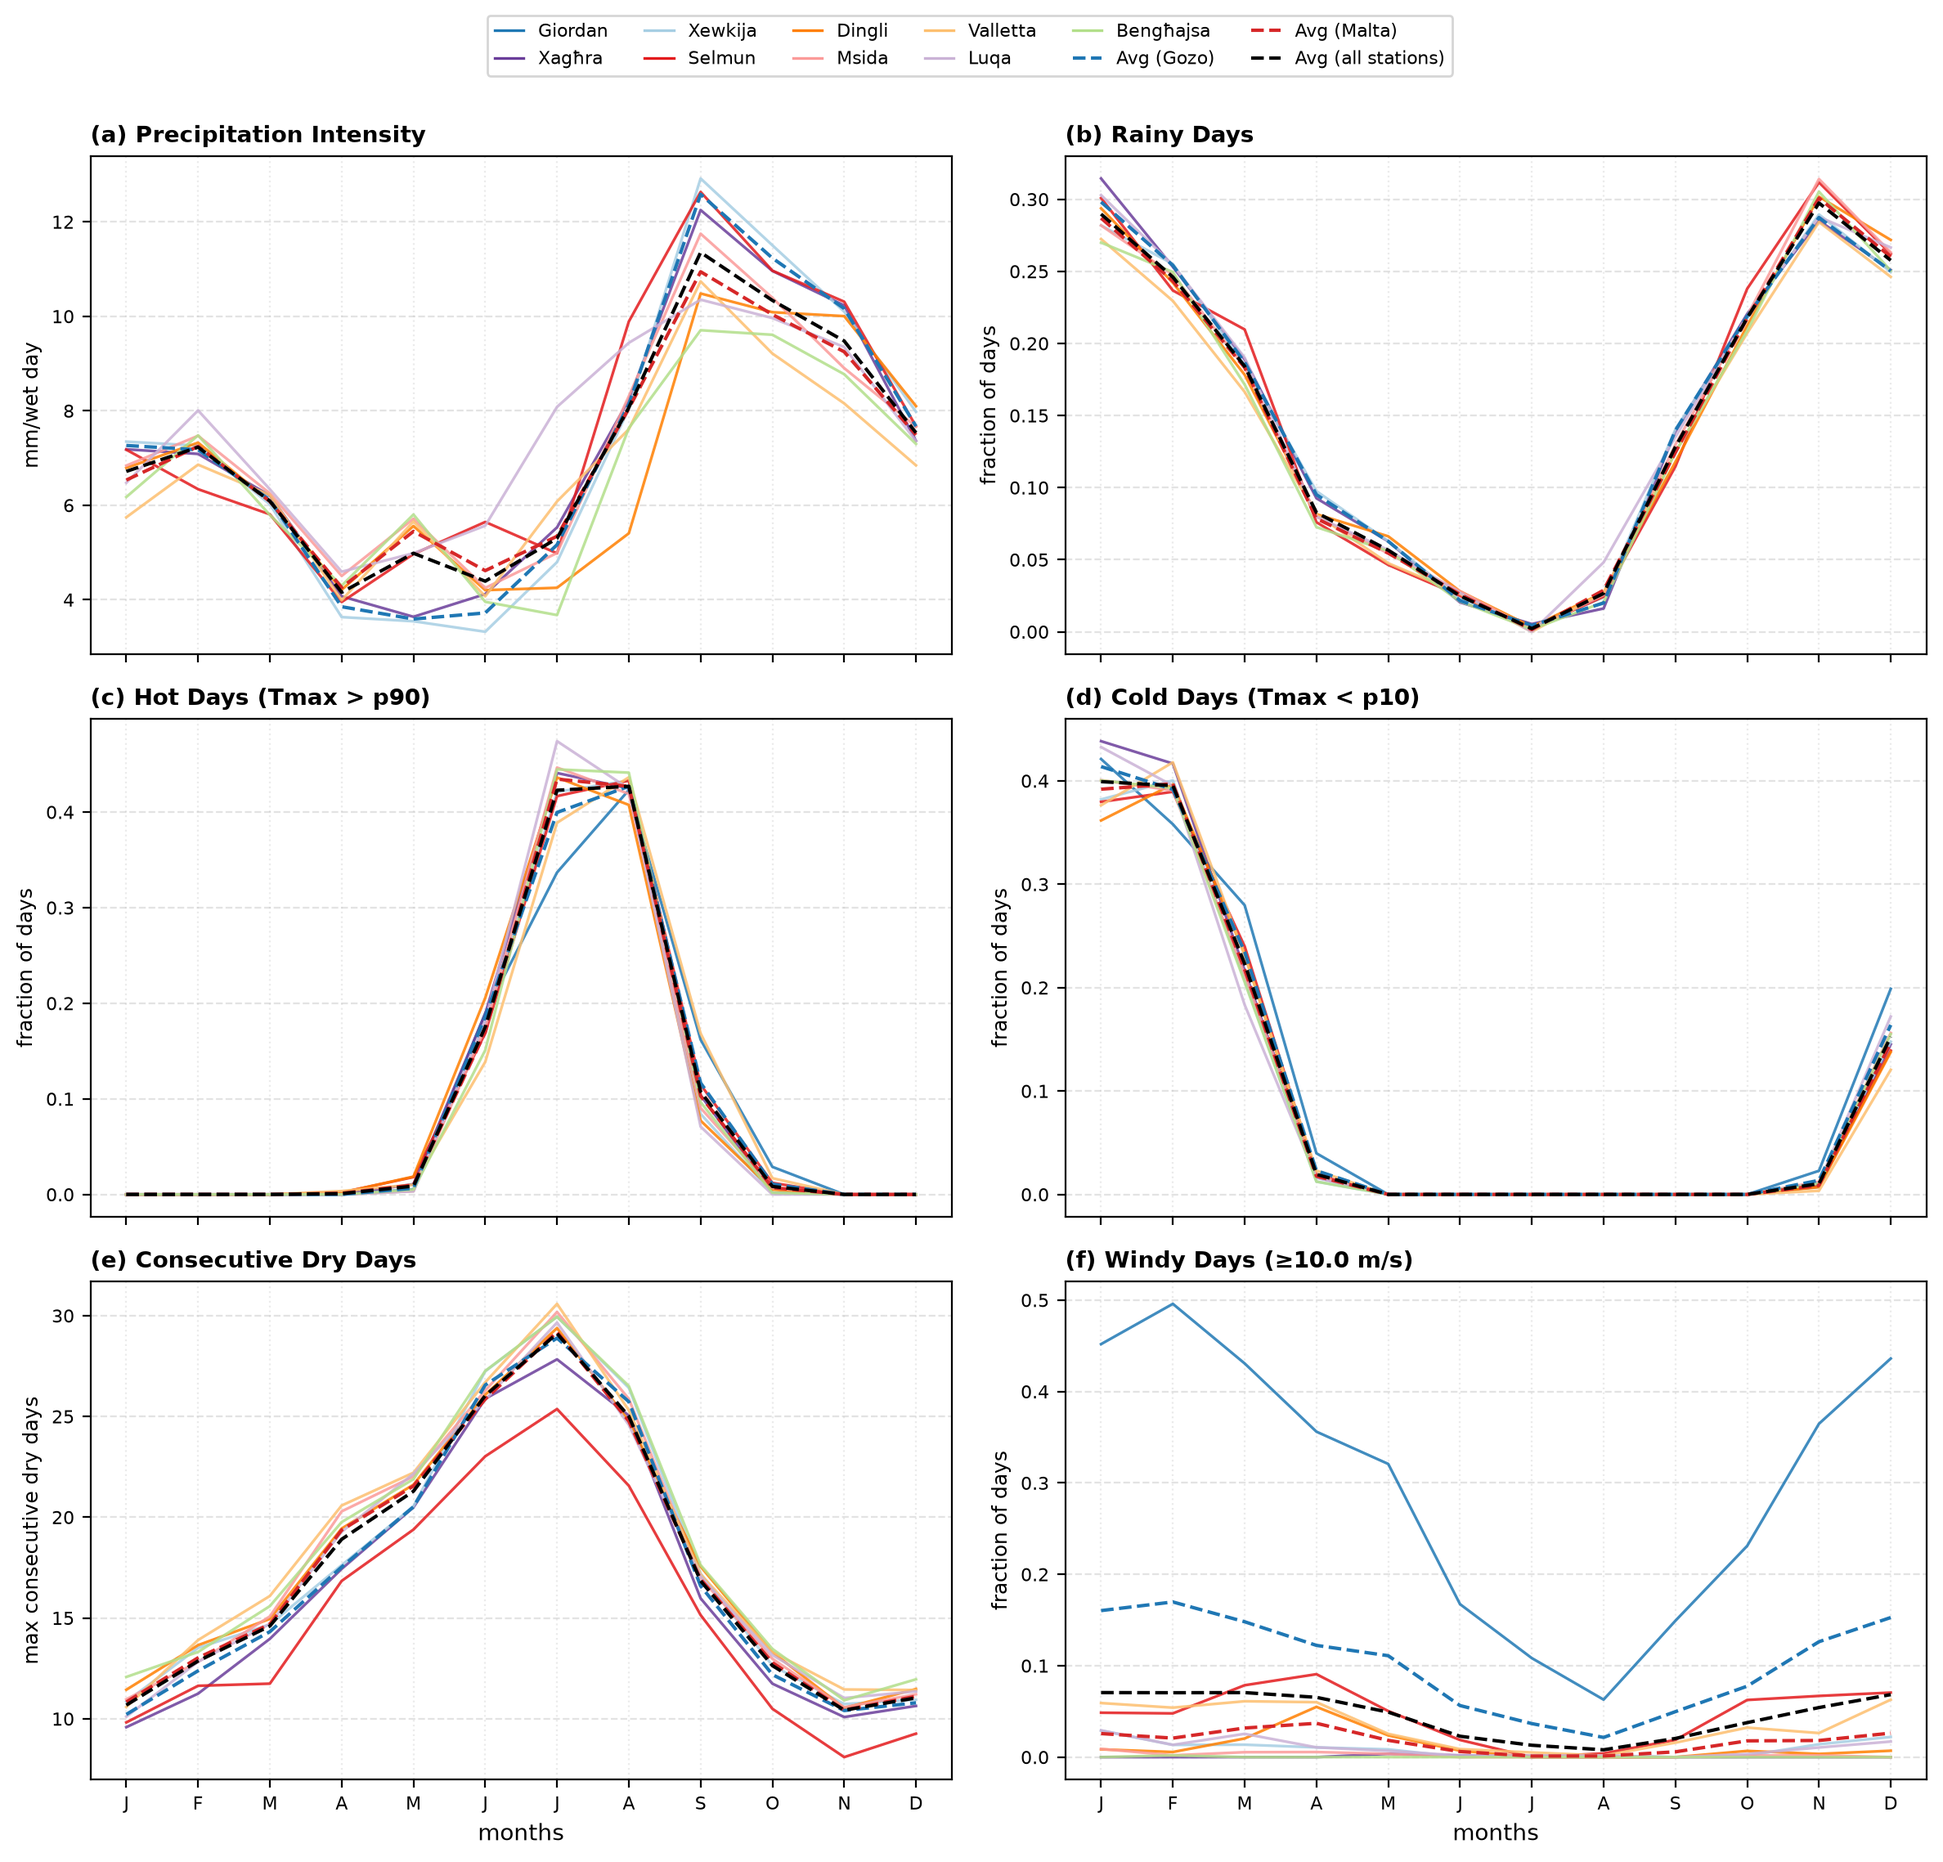
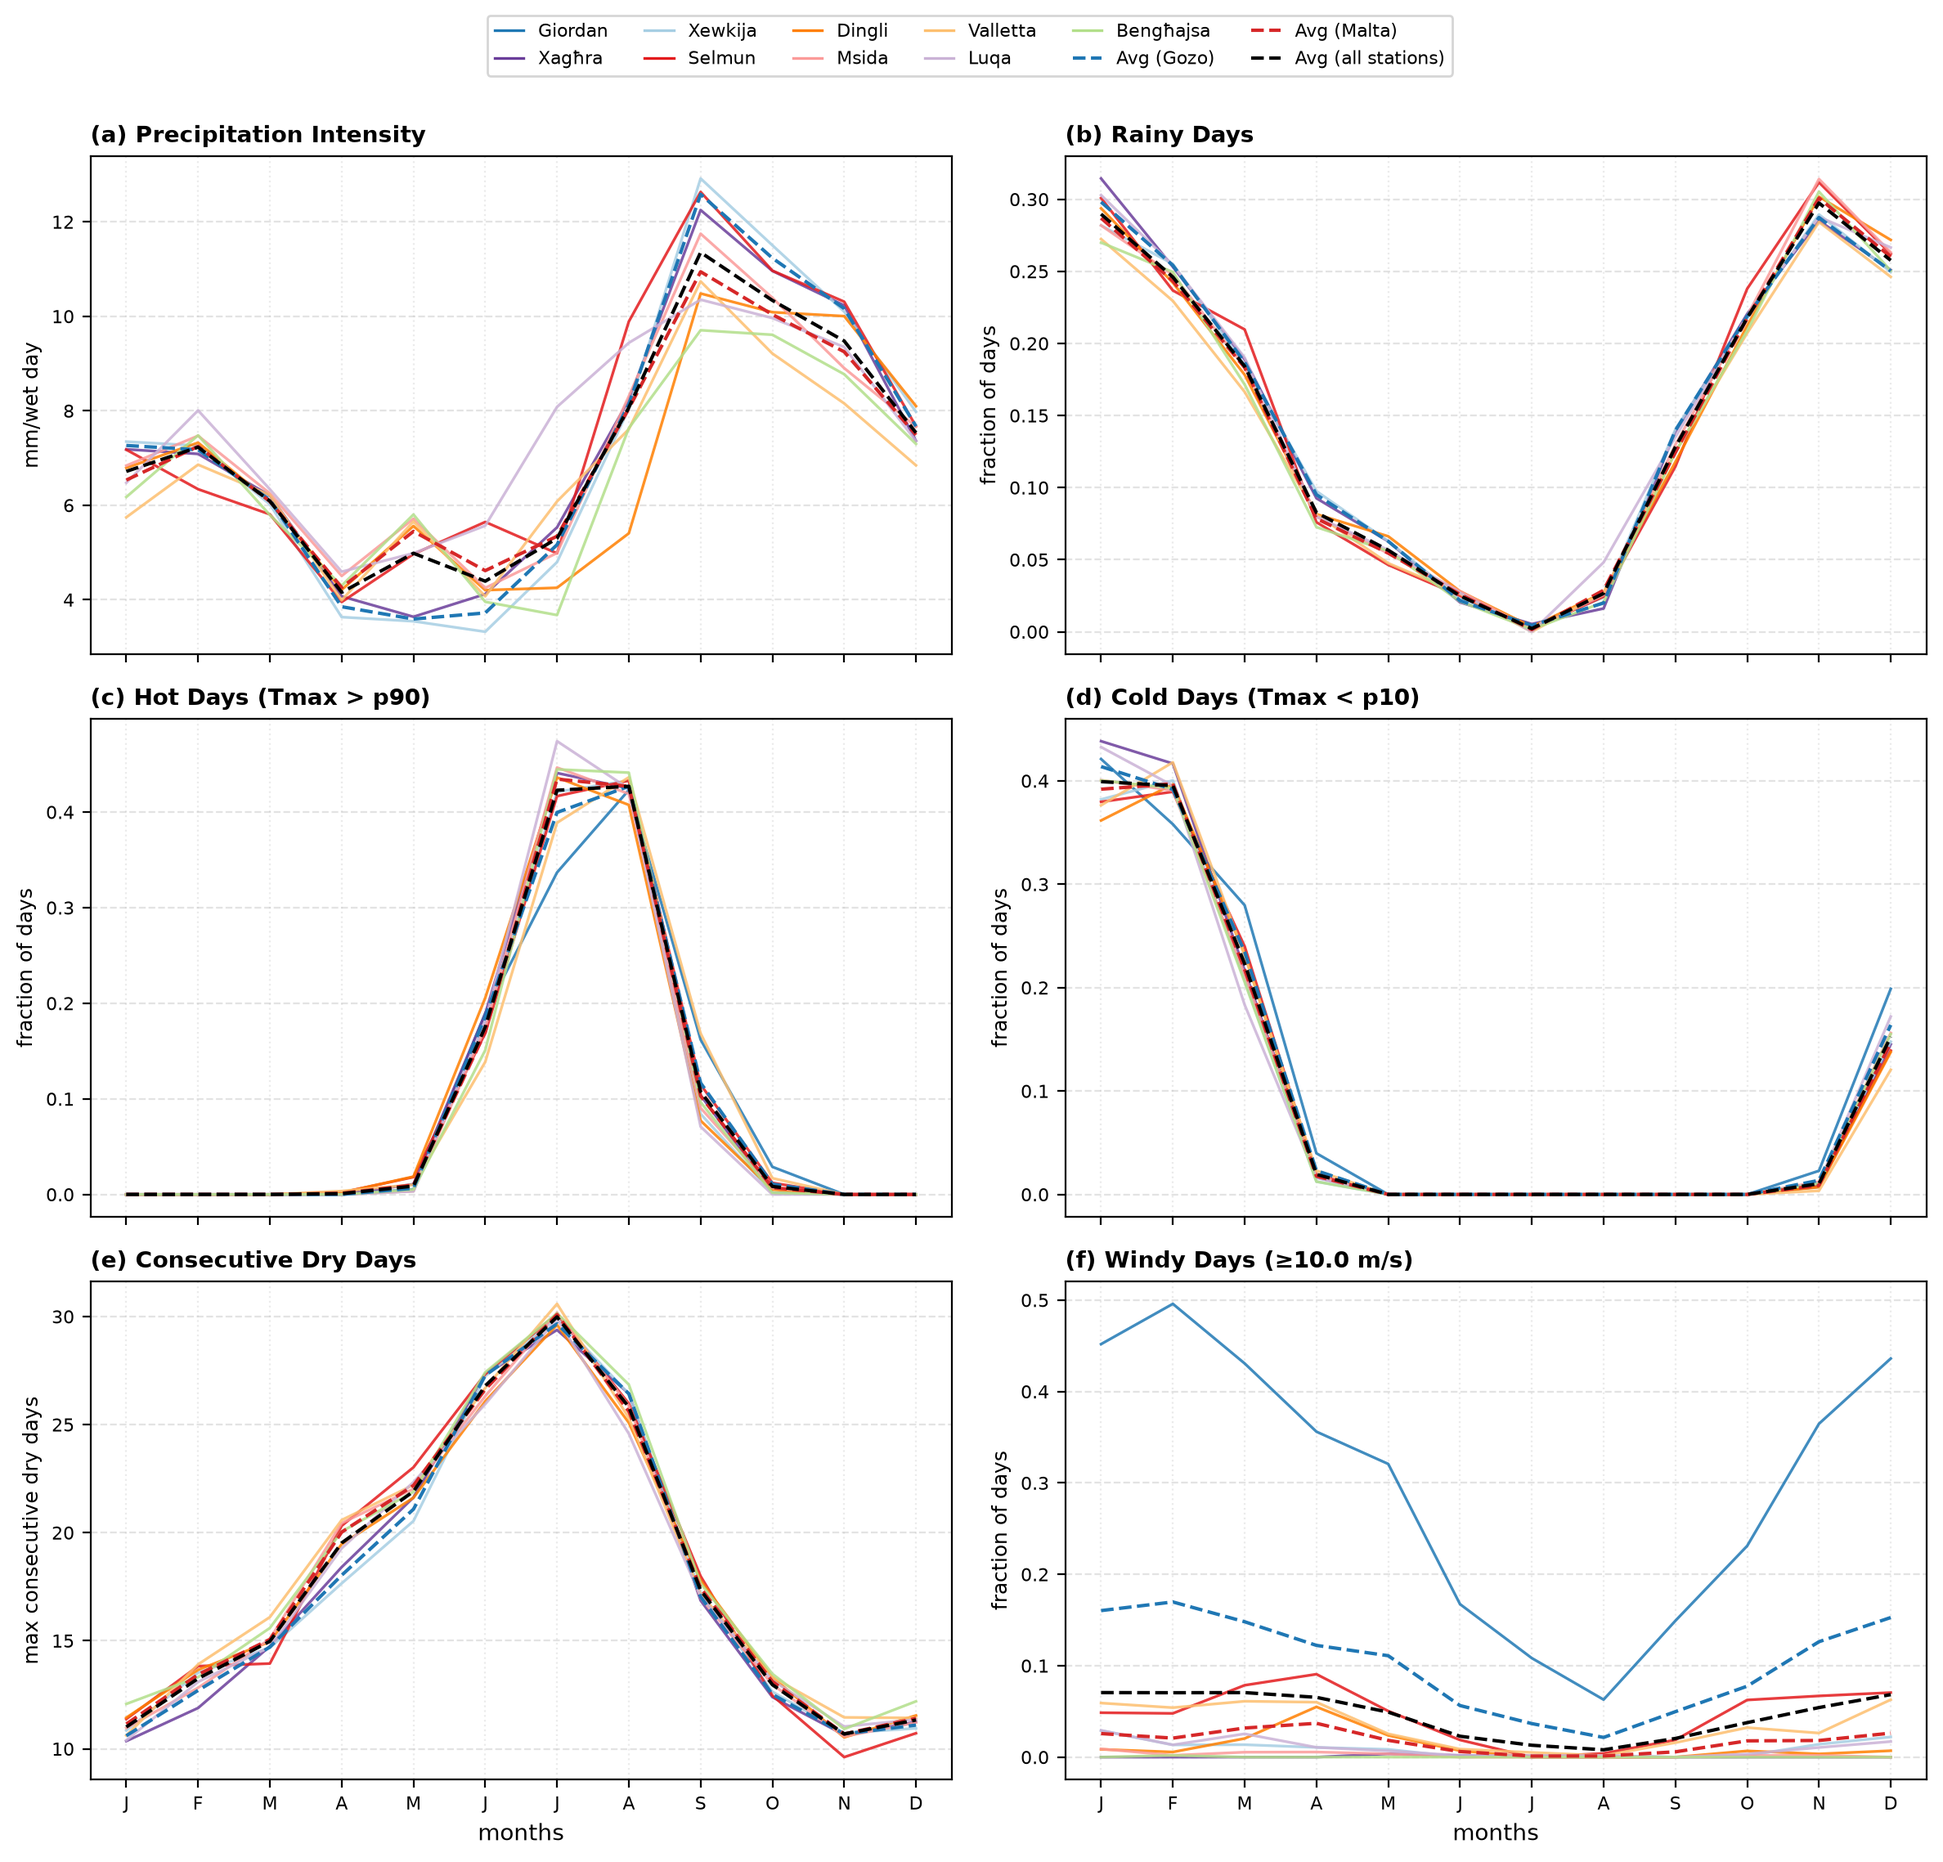
dry-days fix
cdd was also impacted by missing days - this is addressed in this fix

Changed region(s): [[0.0623, 0.686, 0.3426, 0.9354], [0.3426, 0.8107, 0.4983, 0.9354]]

diff --git a/3.1_Station-climatologies/Fig6_ac_indices_panel.py b/3.1_Station-climatologies/Fig6_ac_indices_panel.py
@@ -109,6 +109,7 @@ def compute_precip_intensity(df, w):
 def compute_cdd(df, w):
     v = pd.to_numeric(df[COL_PRECIP].replace(MISSING_VAL, np.nan), errors="coerce")
     dry = (v < WET_THRESHOLD).astype(float)
+    dry[v.isna()] = np.nan
     half = w // 2
     result = np.full(len(dry), np.nan)
     dv = dry.values
@@ -120,8 +121,10 @@ def compute_cdd(df, w):
         for val in seg:
             if val == 1.0:
                 cur += 1; mx = max(mx, cur)
-            else:
+            elif val == 0.0:
                 cur = 0
+#           else:
+#               cur = 0
         result[i] = mx
     return pd.Series(result, index=df.index)
 

diff --git a/3.1_Station-climatologies/annual-cycle/plot_annual_cycle_indices.py b/3.1_Station-climatologies/annual-cycle/plot_annual_cycle_indices.py
@@ -130,6 +130,7 @@ def compute_cdd(df, window):
     """
     v = pd.to_numeric(df[COL_PRECIP].replace(MISSING_VAL, np.nan), errors="coerce")
     dry = (v < WET_THRESHOLD).astype(float)
+    dry[v.isna()] = np.nan
 
     half = window // 2
     result = np.full(len(dry), np.nan)
@@ -145,7 +146,7 @@ def compute_cdd(df, window):
             if val == 1.0:
                 cur_run += 1
                 max_run = max(max_run, cur_run)
-            else:
+            elif val == 0.0:
                 cur_run = 0
         result[i] = max_run
 
